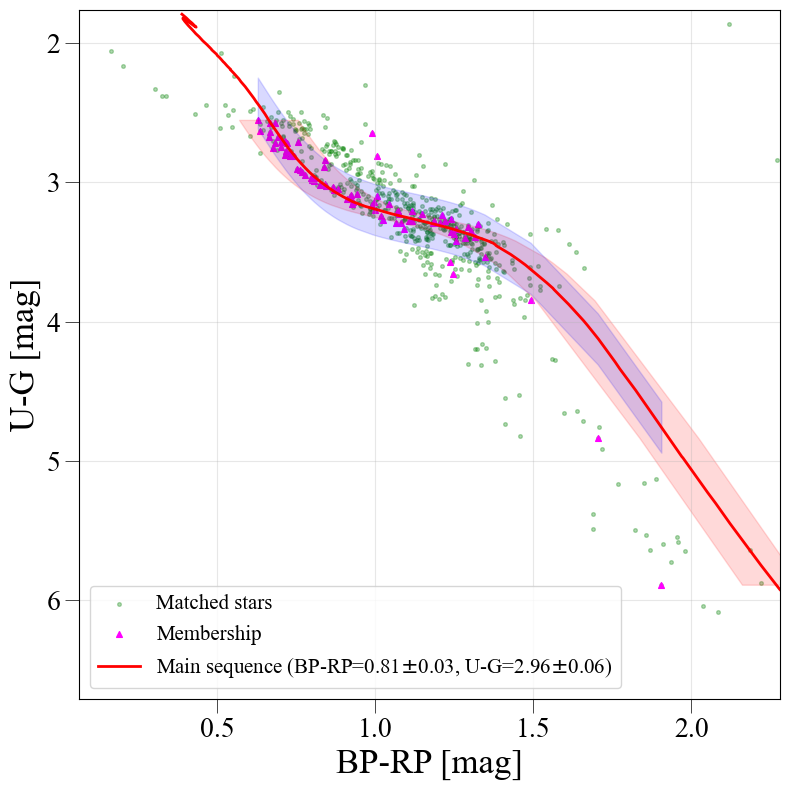
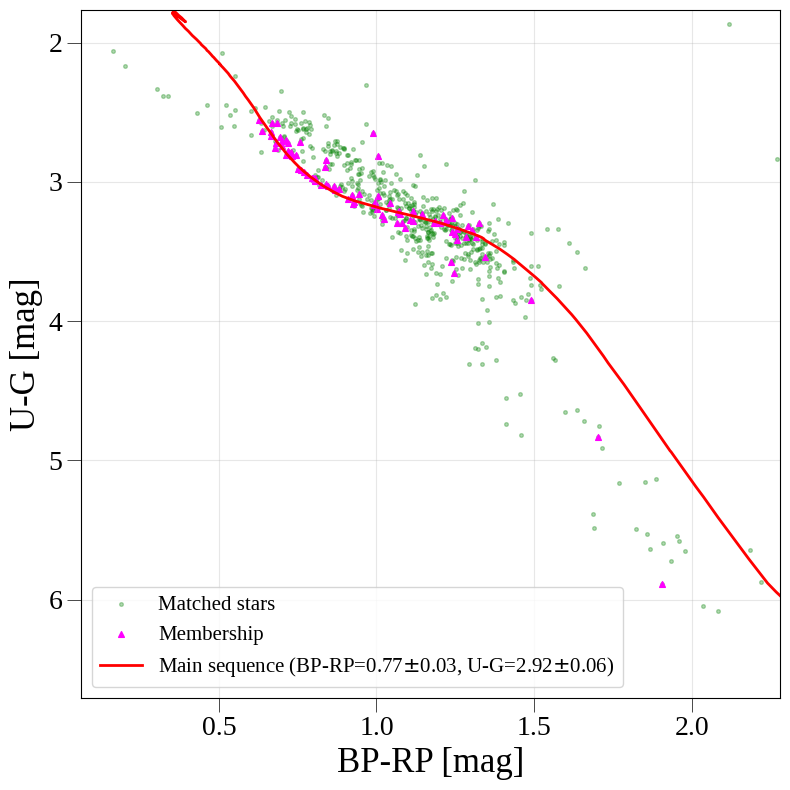
adding switch for showing uncertainty region on CC-diagram

diff --git a/process_data.py b/process_data.py
@@ -14,7 +14,7 @@ import os
 
 # Plots settings 
 plt.rc("font", size=10)
-plt.rcParams["font.family"] = "Times New Roman"
+plt.rcParams['font.family'] = 'Liberation Serif'
 
 def coords_reproject(cluster, coords, gaia_mag, plots=True, members=False):
     # Importing gaia and uv data
@@ -165,7 +165,7 @@ def filtering(cluster, plots=True):
         print(f"\nPlotting filtered stars for {cluster}...")
         plot_filtered(gaia_filtered, uv_filtered, gaia_cart, uv_cart)
 
-def diagram(cluster, colour1, colour2, data_number, adjust=False, cmd=False, test=False):
+def diagram(cluster, colour1, colour2, data_number, adjust=False, cmd=False, test=False, show_uncertainty=True):
     # Importing main sequence data
     print(f"\nImporting main sequence data...")
     ms1 = pd.read_csv('../MS_members/lines_UBPRPG_1.txt', delimiter = '\s+')
@@ -247,12 +247,12 @@ def diagram(cluster, colour1, colour2, data_number, adjust=False, cmd=False, tes
         else:
             print(f"\nPlotting colour-colour diagram for {cluster} with colours {colour1} and {colour2}...")
             if not os.path.isdir(f'plots/CC'): os.system(f'mkdir -p plots/CC')
-            plot_cc(gaia_matched, uv_matched, gaia_filtered, uv_filtered, ms, colour1, colour2, data_number, adjust, test)
+            plot_cc(gaia_matched, uv_matched, gaia_filtered, uv_filtered, ms, colour1, colour2, data_number, adjust, test, show_uncertainty)
             print(f"Colour-colour diagram saved.\n")
     else:
         print(f"\nPlotting colour-colour diagram for test data with colours {colour1} and {colour2}...")
         if not os.path.isdir(f'plots/CC'): os.system(f'mkdir -p plots/CC')
-        plot_cc([], [], gaia_filtered, uv_filtered, ms, colour1, colour2, data_number, adjust, test)
+        plot_cc([], [], gaia_filtered, uv_filtered, ms, colour1, colour2, data_number, adjust, test, show_uncertainty)
         print(f"Colour-colour diagram saved.\n")
 
 def radius(ra, dec):
@@ -359,7 +359,7 @@ def plot_filtered(gaia_filtered, uv_filtered, gaia_cart, uv_cart):
 
     fig.savefig(f'plots/cart_coords_filtered.png', bbox_inches='tight')
 
-def plot_cc(gaia_matched, uv_matched, gaia_filtered, uv_filtered, ms, colour1, colour2, data_number, adjust, test=False):
+def plot_cc(gaia_matched, uv_matched, gaia_filtered, uv_filtered, ms, colour1, colour2, data_number, adjust, test=False, show_uncertainty=True):
     fig, ax = plt.subplots(figsize=(8, 8))
 
     # Plot limits
@@ -494,20 +494,21 @@ def plot_cc(gaia_matched, uv_matched, gaia_filtered, uv_filtered, ms, colour1, c
         # ax2.scatter(gaia_filtered[colour1], ms_fit_y, color='blue', s=5)
         # ax2.scatter(x_estimated, uv_filtered[colour2], color='blue', s=5)
 
-        sorted_indices = uv_filtered[colour2].argsort()
+        if show_uncertainty:
+            sorted_indices = uv_filtered[colour2].argsort()
 
-        uv_filtered = uv_filtered.iloc[sorted_indices]
-        x_estimated = x_estimated[sorted_indices]
+            uv_filtered = uv_filtered.iloc[sorted_indices]
+            x_estimated = x_estimated[sorted_indices]
 
-        ax2.fill_betweenx(uv_filtered[colour2], x_estimated + std_dev_x, x_estimated - std_dev_x, color='red', alpha=0.15)
+            ax2.fill_betweenx(uv_filtered[colour2], x_estimated + std_dev_x, x_estimated - std_dev_x, color='red', alpha=0.15)
 
-        # Sort the data by the growing value of x and y
-        sorted_indices = gaia_filtered[colour1].argsort()
+            # Sort the data by the growing value of x and y
+            sorted_indices = gaia_filtered[colour1].argsort()
 
-        gaia_filtered = gaia_filtered.iloc[sorted_indices]
-        ms_fit_y = ms_fit_y[sorted_indices]
+            gaia_filtered = gaia_filtered.iloc[sorted_indices]
+            ms_fit_y = ms_fit_y[sorted_indices]
 
-        ax2.fill_between(gaia_filtered[colour1], ms_fit_y + std_dev_y, ms_fit_y - std_dev_y, color='blue', alpha=0.15)
+            ax2.fill_between(gaia_filtered[colour1], ms_fit_y + std_dev_y, ms_fit_y - std_dev_y, color='blue', alpha=0.15)
 
         ax2.plot()
         ax2.legend(loc='lower left', fontsize=15)

diff --git a/controller.py b/controller.py
@@ -44,7 +44,7 @@ def run(cluster, procedure, args):
 	args = {"coords_reproject" : [y["cluster"], y["coords"], y["gaia_mag"], y["plots"], y["members"]],
 			"matching" : [y["cluster"], y["gaia_mag"], y["matchrad"], y["trirad"], y["nobj"], y["plots"]],	
 			"filtering" : [y["cluster"], y["plots"]],
-			"diagram" : [y["cluster"], y["colour1"], y["colour2"], y["data_number"], y["adjust"], y["cmd"], y["test"]]
+			"diagram" : [y["cluster"], y["colour1"], y["colour2"], y["data_number"], y["adjust"], y["cmd"], y["test"], y["show_uncertainty"]]
 			}
 
 	eval(procedure)(*args[procedure])
